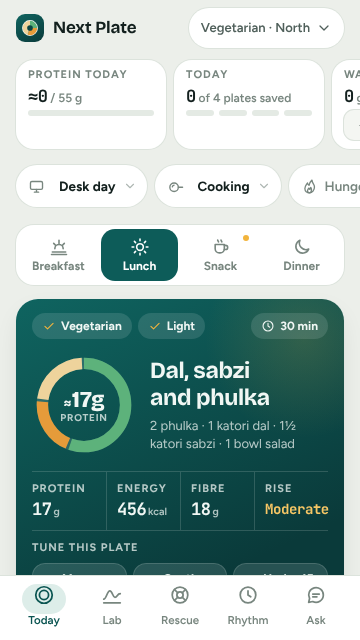
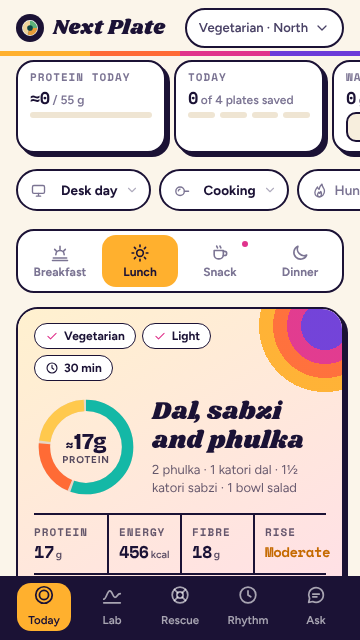
Next Plate: mixtape visual identity (retro lettering, sunset stripes, sticker cards)
Claude-Session: https://claude.ai/code/session_01LviQGy51n6BiabkyYHdytK

diff --git a/hosted/v4/server.ts b/hosted/v4/server.ts
@@ -16,7 +16,7 @@ const PAGE: string = String.raw`<!doctype html><html lang="en"><head><meta chars
 <meta name="claude:viewport-fit-sides" content="cover">
 <link rel="preconnect" href="https://fonts.googleapis.com">
 <link rel="preconnect" href="https://fonts.gstatic.com" crossorigin>
-<link rel="stylesheet" href="https://fonts.googleapis.com/css2?family=Bricolage+Grotesque:opsz,wght@12..96,500..800&family=Figtree:wght@400..700&family=JetBrains+Mono:wght@500..700&display=swap">
+<link rel="stylesheet" href="https://fonts.googleapis.com/css2?family=Bricolage+Grotesque:opsz,wght@12..96,500..800&family=Figtree:wght@400..700&family=JetBrains+Mono:wght@500..700&family=Shrikhand&family=Space+Mono:wght@400;700&display=swap">
 <style>
 /* Layout: five live instruments. On a phone they are tabs (Today, Lab, Rescue, Rhythm, Ask). On a wide screen they sit together as a studio: plate engine and plate lab on the first row, rescue, day rhythm and ask on the second. */
 :root{
@@ -466,6 +466,74 @@ input[type=range]::-moz-range-thumb{width:24px;height:24px;border-radius:50%;bac
   .app[data-layout="studio"] .toast{top:74px}
 }
 @media (min-width:1280px){.app[data-layout="studio"] .labgrid{grid-template-columns:minmax(0,1.08fr) minmax(0,1fr)}}
+
+/* ===== v5: mixtape. Light paper, retro lettering, sunset stripes, sticker cards, one deep-space panel ===== */
+:root{--bg:#FBF5EA;--surface:#FFFFFF;--surface2:#F7EEDD;--ink:#1B1235;--ink2:#4A4266;--ink3:#7B7493;--line:#E7DBC6;
+  --brand:#E0338C;--brand-ink:#FFFFFF;--brand-soft:#FFE1EF;--brand-text:#B41E6C;
+  --hero1:#FFF1CF;--hero2:#FFDDEA;--hero-ink:#1B1235;--hero-ink2:rgba(27,18,53,.68);--hero-line:rgba(27,18,53,.16);--hero-chip:#FFFFFF;--track:#EFE5D3;--track-dark:rgba(27,18,53,.1);
+  --haldi:#FFB02E;--veg:#14B8A6;--pro:#FF6B35;--grain:#FFC94D;--side:#B9A7F0;--chilli:#D8342B;--ok:#0F9A8A;--warn-bg:#FFF0C2;--warn-ink:#5B3E00;--toast:#1B1235;--toast-ink:#FFFFFF;
+  --ink-panel:#1B1235;--panel2:#33175F;--glow:#FFB02E;--amber:#FF6FB0;--p-ink:#F6F0FF;--p-ink2:rgba(246,240,255,.7);--p-line:rgba(246,240,255,.16);
+  --band-g:#0B8F80;--band-m:#C56A00;--band-s:#D8342B;--panelbg:#FFFBF3;--shadow:4px 4px 0 #1B1235;
+  --mono:"Space Mono","JetBrains Mono",ui-monospace,Menlo,monospace;--retro:"Shrikhand","Bricolage Grotesque",Georgia,serif;color-scheme:light}
+@media (prefers-color-scheme:dark){:root:not([data-theme="light"]){--bg:#FBF5EA;--surface:#FFFFFF;--surface2:#F7EEDD;--ink:#1B1235;--ink2:#4A4266;--ink3:#7B7493;--line:#E7DBC6;
+  --brand:#E0338C;--brand-ink:#FFFFFF;--brand-soft:#FFE1EF;--brand-text:#B41E6C;
+  --hero1:#FFF1CF;--hero2:#FFDDEA;--hero-ink:#1B1235;--hero-ink2:rgba(27,18,53,.68);--hero-line:rgba(27,18,53,.16);--hero-chip:#FFFFFF;--track:#EFE5D3;--track-dark:rgba(27,18,53,.1);
+  --haldi:#FFB02E;--veg:#14B8A6;--pro:#FF6B35;--grain:#FFC94D;--side:#B9A7F0;--chilli:#D8342B;--ok:#0F9A8A;--warn-bg:#FFF0C2;--warn-ink:#5B3E00;--toast:#1B1235;--toast-ink:#FFFFFF;
+  --ink-panel:#1B1235;--panel2:#33175F;--glow:#FFB02E;--amber:#FF6FB0;--p-ink:#F6F0FF;--p-ink2:rgba(246,240,255,.7);--p-line:rgba(246,240,255,.16);
+  --band-g:#0B8F80;--band-m:#C56A00;--band-s:#D8342B;--panelbg:#FFFBF3;--shadow:4px 4px 0 #1B1235;
+  --mono:"Space Mono","JetBrains Mono",ui-monospace,Menlo,monospace;--retro:"Shrikhand","Bricolage Grotesque",Georgia,serif;color-scheme:light}}
+:root[data-theme="dark"]{--bg:#FBF5EA;--surface:#FFFFFF;--surface2:#F7EEDD;--ink:#1B1235;--ink2:#4A4266;--ink3:#7B7493;--line:#E7DBC6;
+  --brand:#E0338C;--brand-ink:#FFFFFF;--brand-soft:#FFE1EF;--brand-text:#B41E6C;
+  --hero1:#FFF1CF;--hero2:#FFDDEA;--hero-ink:#1B1235;--hero-ink2:rgba(27,18,53,.68);--hero-line:rgba(27,18,53,.16);--hero-chip:#FFFFFF;--track:#EFE5D3;--track-dark:rgba(27,18,53,.1);
+  --haldi:#FFB02E;--veg:#14B8A6;--pro:#FF6B35;--grain:#FFC94D;--side:#B9A7F0;--chilli:#D8342B;--ok:#0F9A8A;--warn-bg:#FFF0C2;--warn-ink:#5B3E00;--toast:#1B1235;--toast-ink:#FFFFFF;
+  --ink-panel:#1B1235;--panel2:#33175F;--glow:#FFB02E;--amber:#FF6FB0;--p-ink:#F6F0FF;--p-ink2:rgba(246,240,255,.7);--p-line:rgba(246,240,255,.16);
+  --band-g:#0B8F80;--band-m:#C56A00;--band-s:#D8342B;--panelbg:#FFFBF3;--shadow:4px 4px 0 #1B1235;
+  --mono:"Space Mono","JetBrains Mono",ui-monospace,Menlo,monospace;--retro:"Shrikhand","Bricolage Grotesque",Georgia,serif;color-scheme:light}
+.top{position:relative}
+.top::after{content:"";position:absolute;left:0;right:0;bottom:0;height:5px;background:linear-gradient(90deg,#FFB02E 0 25%,#FF6B35 25% 50%,#E0338C 50% 75%,#6C3BD9 75%)}
+.brand{font:400 21px/24px var(--retro);letter-spacing:.01em}
+.mark{background:var(--ink);border-radius:50%}
+.panel-h h2,.hero h2,.setup-hero h1,.dish,.empty-card h2,.sheet-h h2{font-family:var(--retro);font-weight:400;letter-spacing:.005em}
+.hero h2{font-size:25px;line-height:29px}.panel-h h2{font-size:24px;line-height:28px}.dish{font-size:21px;line-height:25px}
+.eyebrow,.cap,.live{font-family:var(--mono)}
+.plate,.card,.tile2,.empty-card,.ans,.inst,.setup-hero,.slide,.goal{border:2px solid var(--ink);box-shadow:4px 4px 0 var(--ink)}
+.meals,.presets,.alt,.move,.prompt,.pillsel,.choice,.tile,.mini,.sit,.myfood,.lswitch,.dslot,.swaprow,.other,.swap,.composer input,.kg input,.wbtn,.ctr button,.goal-btn{border:2px solid var(--ink);box-shadow:none}
+.btn{border:2px solid var(--ink);box-shadow:3px 3px 0 var(--ink);background:#fff;transition:transform 90ms,box-shadow 90ms}
+.btn.primary{background:var(--brand);color:#fff}.btn.done{background:var(--veg);color:var(--ink)}
+.btn:active,.tbtn:active,.send:active{transform:translate(2px,2px);box-shadow:1px 1px 0 var(--ink)}
+.send{border:2px solid var(--ink);box-shadow:3px 3px 0 var(--ink);background:var(--brand)}.send.cam{background:#fff}
+.meal[aria-checked="true"]{background:var(--haldi);color:var(--ink)}.meal .now{background:var(--brand)}
+.preset[aria-checked="true"]{background:var(--ink);color:#fff}
+.choice[aria-pressed="true"],.choice[aria-checked="true"],.tile[aria-checked="true"]{background:var(--ink);color:#fff}
+.sit[aria-checked="true"],.pillsel[aria-expanded="true"],.lswitch button[aria-pressed="true"]{background:var(--ink);color:#fff}
+.move[aria-pressed="true"]{box-shadow:4px 4px 0 var(--brand);background:#FFF7FB}
+.hero{background:linear-gradient(150deg,var(--hero1),var(--hero2));overflow:hidden}
+.hero::after{right:-58px;top:-58px;width:150px;height:150px;border-radius:50%;background:radial-gradient(circle,#6C3BD9 0 24px,#E0338C 24px 38px,#FF6B35 38px 52px,#FFB02E 52px 66px,rgba(255,176,46,0) 66px);opacity:.95}
+.hero-top{padding-right:64px}.hchip.time{margin-left:0}
+.hchip{border:1.5px solid var(--ink);background:#fff}.hchip.fit svg.i{color:var(--brand)}
+.read4,.tune{border-top:2px solid var(--ink)}.read4>div+div{border-left:2px solid var(--ink)}
+.tbtn{background:#fff;color:var(--ink);border:2px solid var(--ink);box-shadow:3px 3px 0 var(--ink)}
+.tbtn[aria-pressed="true"]{background:var(--pro);color:#fff}
+.modlog li::before{background:var(--brand)}
+.qty{background:var(--surface2);border:1.5px solid var(--ink)}
+.tag{background:var(--haldi);color:var(--ink);border:1.5px solid var(--ink)}
+.why-ic,.ask-ic,.ans-h .dot,.goal-ic{background:var(--ink);color:var(--haldi);border:0}
+.tip{background:#FFF0C2;color:var(--ink);border:2px solid var(--ink)}
+.note{border:2px solid var(--ink)}
+.inst{background:radial-gradient(1.4px 1.4px at 12% 22%,#fff 60%,transparent 61%),radial-gradient(1px 1px at 78% 14%,#fff 60%,transparent 61%),radial-gradient(1.2px 1.2px at 56% 34%,#FFD88A 60%,transparent 61%),radial-gradient(1px 1px at 34% 58%,#fff 60%,transparent 61%),radial-gradient(1.3px 1.3px at 90% 62%,#FF9CCB 60%,transparent 61%),radial-gradient(1px 1px at 8% 82%,#fff 60%,transparent 61%),linear-gradient(160deg,var(--ink-panel),var(--panel2))}
+.inst .band-g{color:#6FF0DC}.inst .band-m{color:#FFC94D}.inst .band-s{color:#FF8FA3}
+.cb-g{fill:#14B8A6;opacity:.2}.cb-m{fill:#FFB02E;opacity:.12}
+.c-act{filter:drop-shadow(0 0 6px rgba(255,176,46,.6))}
+.hab{background:rgba(246,240,255,.07)}.hab[aria-pressed="true"]{background:var(--haldi);color:var(--ink);box-shadow:none}
+.cmp-bars .b1{background:var(--haldi)}.cmp-bars .b1.warn{background:#FF8FA3}
+.bar i,.mdots i.on,.pbar .col i{background:var(--brand)}.pbar .col i.full{background:var(--veg)}
+.tabs{background:var(--ink);border-top:0}
+.tab{color:rgba(255,255,255,.62)}.tab[aria-current="page"]{color:var(--ink)}.tab[aria-current="page"]::before{background:var(--haldi);top:1px;width:54px;height:48px;border-radius:14px}
+.bub{background:var(--brand);color:#fff;border:2px solid var(--ink)}
+.switch{border:1.5px solid var(--ink)}
+.tl-row.done .tl-dot{background:var(--veg);box-shadow:inset 0 0 0 2px var(--ink)}.tl-dot{box-shadow:inset 0 0 0 2px var(--ink)}.tl::before{background:var(--ink)}
+.toast{border:2px solid #fff}
+@media (min-width:1080px){.app[data-layout="studio"] .panel{border:2px solid var(--ink);box-shadow:6px 6px 0 var(--ink)}}
 </style>
 
 <svg width="0" height="0" style="position:absolute" aria-hidden="true">
@@ -1466,7 +1534,7 @@ function heroCard(m,v){
   var rd=el("div","read4");
   function cell(cap,node,unit,cls){var d=el("div");d.appendChild(el("p","cap",cap));var x=el("span","v"+(cls?" "+cls:""));x.appendChild(node);if(unit)x.appendChild(el("small",null,unit));d.appendChild(x);return d;}
   add(rd,cell("Protein",tw("h-p",nu.p),"g"),cell("Energy",tw("h-k",nu.k),"kcal"),cell("Fibre",tw("h-f",nu.f),"g"),cell("Rise",el("span","mono",rs.band),null,bandCls(rs.band)));
-  var tn=el("div","tune");tn.appendChild(el("p","cap","Tune this plate"));
+  var tn=el("div","tune");tn.appendChild(el("p","cap","Remix this plate"));
   [["pro","More protein","dumbbell"],["gentle","Gentler on sugar","lab"],["quick","Under 15 min","bolt"]].forEach(function(x){
     var b=btn("tbtn",x[1],x[2],"tune-"+x[0]);setPressed(b,TUNE[x[0]]);
     b.addEventListener("click",function(){TUNE[x[0]]=!TUNE[x[0]];if(x[0]==="quick"){page=0;sel=0;FRESH=true;}render();

diff --git a/hosted/v4/index.html b/hosted/v4/index.html
@@ -2,7 +2,7 @@
 <meta name="claude:viewport-fit-sides" content="cover">
 <link rel="preconnect" href="https://fonts.googleapis.com">
 <link rel="preconnect" href="https://fonts.gstatic.com" crossorigin>
-<link rel="stylesheet" href="https://fonts.googleapis.com/css2?family=Bricolage+Grotesque:opsz,wght@12..96,500..800&family=Figtree:wght@400..700&family=JetBrains+Mono:wght@500..700&display=swap">
+<link rel="stylesheet" href="https://fonts.googleapis.com/css2?family=Bricolage+Grotesque:opsz,wght@12..96,500..800&family=Figtree:wght@400..700&family=JetBrains+Mono:wght@500..700&family=Shrikhand&family=Space+Mono:wght@400;700&display=swap">
 <style>
 /* Layout: five live instruments. On a phone they are tabs (Today, Lab, Rescue, Rhythm, Ask). On a wide screen they sit together as a studio: plate engine and plate lab on the first row, rescue, day rhythm and ask on the second. */
 :root{
@@ -452,6 +452,74 @@ input[type=range]::-moz-range-thumb{width:24px;height:24px;border-radius:50%;bac
   .app[data-layout="studio"] .toast{top:74px}
 }
 @media (min-width:1280px){.app[data-layout="studio"] .labgrid{grid-template-columns:minmax(0,1.08fr) minmax(0,1fr)}}
+
+/* ===== v5: mixtape. Light paper, retro lettering, sunset stripes, sticker cards, one deep-space panel ===== */
+:root{--bg:#FBF5EA;--surface:#FFFFFF;--surface2:#F7EEDD;--ink:#1B1235;--ink2:#4A4266;--ink3:#7B7493;--line:#E7DBC6;
+  --brand:#E0338C;--brand-ink:#FFFFFF;--brand-soft:#FFE1EF;--brand-text:#B41E6C;
+  --hero1:#FFF1CF;--hero2:#FFDDEA;--hero-ink:#1B1235;--hero-ink2:rgba(27,18,53,.68);--hero-line:rgba(27,18,53,.16);--hero-chip:#FFFFFF;--track:#EFE5D3;--track-dark:rgba(27,18,53,.1);
+  --haldi:#FFB02E;--veg:#14B8A6;--pro:#FF6B35;--grain:#FFC94D;--side:#B9A7F0;--chilli:#D8342B;--ok:#0F9A8A;--warn-bg:#FFF0C2;--warn-ink:#5B3E00;--toast:#1B1235;--toast-ink:#FFFFFF;
+  --ink-panel:#1B1235;--panel2:#33175F;--glow:#FFB02E;--amber:#FF6FB0;--p-ink:#F6F0FF;--p-ink2:rgba(246,240,255,.7);--p-line:rgba(246,240,255,.16);
+  --band-g:#0B8F80;--band-m:#C56A00;--band-s:#D8342B;--panelbg:#FFFBF3;--shadow:4px 4px 0 #1B1235;
+  --mono:"Space Mono","JetBrains Mono",ui-monospace,Menlo,monospace;--retro:"Shrikhand","Bricolage Grotesque",Georgia,serif;color-scheme:light}
+@media (prefers-color-scheme:dark){:root:not([data-theme="light"]){--bg:#FBF5EA;--surface:#FFFFFF;--surface2:#F7EEDD;--ink:#1B1235;--ink2:#4A4266;--ink3:#7B7493;--line:#E7DBC6;
+  --brand:#E0338C;--brand-ink:#FFFFFF;--brand-soft:#FFE1EF;--brand-text:#B41E6C;
+  --hero1:#FFF1CF;--hero2:#FFDDEA;--hero-ink:#1B1235;--hero-ink2:rgba(27,18,53,.68);--hero-line:rgba(27,18,53,.16);--hero-chip:#FFFFFF;--track:#EFE5D3;--track-dark:rgba(27,18,53,.1);
+  --haldi:#FFB02E;--veg:#14B8A6;--pro:#FF6B35;--grain:#FFC94D;--side:#B9A7F0;--chilli:#D8342B;--ok:#0F9A8A;--warn-bg:#FFF0C2;--warn-ink:#5B3E00;--toast:#1B1235;--toast-ink:#FFFFFF;
+  --ink-panel:#1B1235;--panel2:#33175F;--glow:#FFB02E;--amber:#FF6FB0;--p-ink:#F6F0FF;--p-ink2:rgba(246,240,255,.7);--p-line:rgba(246,240,255,.16);
+  --band-g:#0B8F80;--band-m:#C56A00;--band-s:#D8342B;--panelbg:#FFFBF3;--shadow:4px 4px 0 #1B1235;
+  --mono:"Space Mono","JetBrains Mono",ui-monospace,Menlo,monospace;--retro:"Shrikhand","Bricolage Grotesque",Georgia,serif;color-scheme:light}}
+:root[data-theme="dark"]{--bg:#FBF5EA;--surface:#FFFFFF;--surface2:#F7EEDD;--ink:#1B1235;--ink2:#4A4266;--ink3:#7B7493;--line:#E7DBC6;
+  --brand:#E0338C;--brand-ink:#FFFFFF;--brand-soft:#FFE1EF;--brand-text:#B41E6C;
+  --hero1:#FFF1CF;--hero2:#FFDDEA;--hero-ink:#1B1235;--hero-ink2:rgba(27,18,53,.68);--hero-line:rgba(27,18,53,.16);--hero-chip:#FFFFFF;--track:#EFE5D3;--track-dark:rgba(27,18,53,.1);
+  --haldi:#FFB02E;--veg:#14B8A6;--pro:#FF6B35;--grain:#FFC94D;--side:#B9A7F0;--chilli:#D8342B;--ok:#0F9A8A;--warn-bg:#FFF0C2;--warn-ink:#5B3E00;--toast:#1B1235;--toast-ink:#FFFFFF;
+  --ink-panel:#1B1235;--panel2:#33175F;--glow:#FFB02E;--amber:#FF6FB0;--p-ink:#F6F0FF;--p-ink2:rgba(246,240,255,.7);--p-line:rgba(246,240,255,.16);
+  --band-g:#0B8F80;--band-m:#C56A00;--band-s:#D8342B;--panelbg:#FFFBF3;--shadow:4px 4px 0 #1B1235;
+  --mono:"Space Mono","JetBrains Mono",ui-monospace,Menlo,monospace;--retro:"Shrikhand","Bricolage Grotesque",Georgia,serif;color-scheme:light}
+.top{position:relative}
+.top::after{content:"";position:absolute;left:0;right:0;bottom:0;height:5px;background:linear-gradient(90deg,#FFB02E 0 25%,#FF6B35 25% 50%,#E0338C 50% 75%,#6C3BD9 75%)}
+.brand{font:400 21px/24px var(--retro);letter-spacing:.01em}
+.mark{background:var(--ink);border-radius:50%}
+.panel-h h2,.hero h2,.setup-hero h1,.dish,.empty-card h2,.sheet-h h2{font-family:var(--retro);font-weight:400;letter-spacing:.005em}
+.hero h2{font-size:25px;line-height:29px}.panel-h h2{font-size:24px;line-height:28px}.dish{font-size:21px;line-height:25px}
+.eyebrow,.cap,.live{font-family:var(--mono)}
+.plate,.card,.tile2,.empty-card,.ans,.inst,.setup-hero,.slide,.goal{border:2px solid var(--ink);box-shadow:4px 4px 0 var(--ink)}
+.meals,.presets,.alt,.move,.prompt,.pillsel,.choice,.tile,.mini,.sit,.myfood,.lswitch,.dslot,.swaprow,.other,.swap,.composer input,.kg input,.wbtn,.ctr button,.goal-btn{border:2px solid var(--ink);box-shadow:none}
+.btn{border:2px solid var(--ink);box-shadow:3px 3px 0 var(--ink);background:#fff;transition:transform 90ms,box-shadow 90ms}
+.btn.primary{background:var(--brand);color:#fff}.btn.done{background:var(--veg);color:var(--ink)}
+.btn:active,.tbtn:active,.send:active{transform:translate(2px,2px);box-shadow:1px 1px 0 var(--ink)}
+.send{border:2px solid var(--ink);box-shadow:3px 3px 0 var(--ink);background:var(--brand)}.send.cam{background:#fff}
+.meal[aria-checked="true"]{background:var(--haldi);color:var(--ink)}.meal .now{background:var(--brand)}
+.preset[aria-checked="true"]{background:var(--ink);color:#fff}
+.choice[aria-pressed="true"],.choice[aria-checked="true"],.tile[aria-checked="true"]{background:var(--ink);color:#fff}
+.sit[aria-checked="true"],.pillsel[aria-expanded="true"],.lswitch button[aria-pressed="true"]{background:var(--ink);color:#fff}
+.move[aria-pressed="true"]{box-shadow:4px 4px 0 var(--brand);background:#FFF7FB}
+.hero{background:linear-gradient(150deg,var(--hero1),var(--hero2));overflow:hidden}
+.hero::after{right:-58px;top:-58px;width:150px;height:150px;border-radius:50%;background:radial-gradient(circle,#6C3BD9 0 24px,#E0338C 24px 38px,#FF6B35 38px 52px,#FFB02E 52px 66px,rgba(255,176,46,0) 66px);opacity:.95}
+.hero-top{padding-right:64px}.hchip.time{margin-left:0}
+.hchip{border:1.5px solid var(--ink);background:#fff}.hchip.fit svg.i{color:var(--brand)}
+.read4,.tune{border-top:2px solid var(--ink)}.read4>div+div{border-left:2px solid var(--ink)}
+.tbtn{background:#fff;color:var(--ink);border:2px solid var(--ink);box-shadow:3px 3px 0 var(--ink)}
+.tbtn[aria-pressed="true"]{background:var(--pro);color:#fff}
+.modlog li::before{background:var(--brand)}
+.qty{background:var(--surface2);border:1.5px solid var(--ink)}
+.tag{background:var(--haldi);color:var(--ink);border:1.5px solid var(--ink)}
+.why-ic,.ask-ic,.ans-h .dot,.goal-ic{background:var(--ink);color:var(--haldi);border:0}
+.tip{background:#FFF0C2;color:var(--ink);border:2px solid var(--ink)}
+.note{border:2px solid var(--ink)}
+.inst{background:radial-gradient(1.4px 1.4px at 12% 22%,#fff 60%,transparent 61%),radial-gradient(1px 1px at 78% 14%,#fff 60%,transparent 61%),radial-gradient(1.2px 1.2px at 56% 34%,#FFD88A 60%,transparent 61%),radial-gradient(1px 1px at 34% 58%,#fff 60%,transparent 61%),radial-gradient(1.3px 1.3px at 90% 62%,#FF9CCB 60%,transparent 61%),radial-gradient(1px 1px at 8% 82%,#fff 60%,transparent 61%),linear-gradient(160deg,var(--ink-panel),var(--panel2))}
+.inst .band-g{color:#6FF0DC}.inst .band-m{color:#FFC94D}.inst .band-s{color:#FF8FA3}
+.cb-g{fill:#14B8A6;opacity:.2}.cb-m{fill:#FFB02E;opacity:.12}
+.c-act{filter:drop-shadow(0 0 6px rgba(255,176,46,.6))}
+.hab{background:rgba(246,240,255,.07)}.hab[aria-pressed="true"]{background:var(--haldi);color:var(--ink);box-shadow:none}
+.cmp-bars .b1{background:var(--haldi)}.cmp-bars .b1.warn{background:#FF8FA3}
+.bar i,.mdots i.on,.pbar .col i{background:var(--brand)}.pbar .col i.full{background:var(--veg)}
+.tabs{background:var(--ink);border-top:0}
+.tab{color:rgba(255,255,255,.62)}.tab[aria-current="page"]{color:var(--ink)}.tab[aria-current="page"]::before{background:var(--haldi);top:1px;width:54px;height:48px;border-radius:14px}
+.bub{background:var(--brand);color:#fff;border:2px solid var(--ink)}
+.switch{border:1.5px solid var(--ink)}
+.tl-row.done .tl-dot{background:var(--veg);box-shadow:inset 0 0 0 2px var(--ink)}.tl-dot{box-shadow:inset 0 0 0 2px var(--ink)}.tl::before{background:var(--ink)}
+.toast{border:2px solid #fff}
+@media (min-width:1080px){.app[data-layout="studio"] .panel{border:2px solid var(--ink);box-shadow:6px 6px 0 var(--ink)}}
 </style>
 
 <svg width="0" height="0" style="position:absolute" aria-hidden="true">
@@ -1452,7 +1520,7 @@ function heroCard(m,v){
   var rd=el("div","read4");
   function cell(cap,node,unit,cls){var d=el("div");d.appendChild(el("p","cap",cap));var x=el("span","v"+(cls?" "+cls:""));x.appendChild(node);if(unit)x.appendChild(el("small",null,unit));d.appendChild(x);return d;}
   add(rd,cell("Protein",tw("h-p",nu.p),"g"),cell("Energy",tw("h-k",nu.k),"kcal"),cell("Fibre",tw("h-f",nu.f),"g"),cell("Rise",el("span","mono",rs.band),null,bandCls(rs.band)));
-  var tn=el("div","tune");tn.appendChild(el("p","cap","Tune this plate"));
+  var tn=el("div","tune");tn.appendChild(el("p","cap","Remix this plate"));
   [["pro","More protein","dumbbell"],["gentle","Gentler on sugar","lab"],["quick","Under 15 min","bolt"]].forEach(function(x){
     var b=btn("tbtn",x[1],x[2],"tune-"+x[0]);setPressed(b,TUNE[x[0]]);
     b.addEventListener("click",function(){TUNE[x[0]]=!TUNE[x[0]];if(x[0]==="quick"){page=0;sel=0;FRESH=true;}render();

diff --git a/next-plate-v4.html b/next-plate-v4.html
@@ -2,7 +2,7 @@
 <meta name="claude:viewport-fit-sides" content="cover">
 <link rel="preconnect" href="https://fonts.googleapis.com">
 <link rel="preconnect" href="https://fonts.gstatic.com" crossorigin>
-<link rel="stylesheet" href="https://fonts.googleapis.com/css2?family=Bricolage+Grotesque:opsz,wght@12..96,500..800&family=Figtree:wght@400..700&family=JetBrains+Mono:wght@500..700&display=swap">
+<link rel="stylesheet" href="https://fonts.googleapis.com/css2?family=Bricolage+Grotesque:opsz,wght@12..96,500..800&family=Figtree:wght@400..700&family=JetBrains+Mono:wght@500..700&family=Shrikhand&family=Space+Mono:wght@400;700&display=swap">
 <style>
 /* Layout: five live instruments. On a phone they are tabs (Today, Lab, Rescue, Rhythm, Ask). On a wide screen they sit together as a studio: plate engine and plate lab on the first row, rescue, day rhythm and ask on the second. */
 :root{
@@ -452,6 +452,74 @@ input[type=range]::-moz-range-thumb{width:24px;height:24px;border-radius:50%;bac
   .app[data-layout="studio"] .toast{top:74px}
 }
 @media (min-width:1280px){.app[data-layout="studio"] .labgrid{grid-template-columns:minmax(0,1.08fr) minmax(0,1fr)}}
+
+/* ===== v5: mixtape. Light paper, retro lettering, sunset stripes, sticker cards, one deep-space panel ===== */
+:root{--bg:#FBF5EA;--surface:#FFFFFF;--surface2:#F7EEDD;--ink:#1B1235;--ink2:#4A4266;--ink3:#7B7493;--line:#E7DBC6;
+  --brand:#E0338C;--brand-ink:#FFFFFF;--brand-soft:#FFE1EF;--brand-text:#B41E6C;
+  --hero1:#FFF1CF;--hero2:#FFDDEA;--hero-ink:#1B1235;--hero-ink2:rgba(27,18,53,.68);--hero-line:rgba(27,18,53,.16);--hero-chip:#FFFFFF;--track:#EFE5D3;--track-dark:rgba(27,18,53,.1);
+  --haldi:#FFB02E;--veg:#14B8A6;--pro:#FF6B35;--grain:#FFC94D;--side:#B9A7F0;--chilli:#D8342B;--ok:#0F9A8A;--warn-bg:#FFF0C2;--warn-ink:#5B3E00;--toast:#1B1235;--toast-ink:#FFFFFF;
+  --ink-panel:#1B1235;--panel2:#33175F;--glow:#FFB02E;--amber:#FF6FB0;--p-ink:#F6F0FF;--p-ink2:rgba(246,240,255,.7);--p-line:rgba(246,240,255,.16);
+  --band-g:#0B8F80;--band-m:#C56A00;--band-s:#D8342B;--panelbg:#FFFBF3;--shadow:4px 4px 0 #1B1235;
+  --mono:"Space Mono","JetBrains Mono",ui-monospace,Menlo,monospace;--retro:"Shrikhand","Bricolage Grotesque",Georgia,serif;color-scheme:light}
+@media (prefers-color-scheme:dark){:root:not([data-theme="light"]){--bg:#FBF5EA;--surface:#FFFFFF;--surface2:#F7EEDD;--ink:#1B1235;--ink2:#4A4266;--ink3:#7B7493;--line:#E7DBC6;
+  --brand:#E0338C;--brand-ink:#FFFFFF;--brand-soft:#FFE1EF;--brand-text:#B41E6C;
+  --hero1:#FFF1CF;--hero2:#FFDDEA;--hero-ink:#1B1235;--hero-ink2:rgba(27,18,53,.68);--hero-line:rgba(27,18,53,.16);--hero-chip:#FFFFFF;--track:#EFE5D3;--track-dark:rgba(27,18,53,.1);
+  --haldi:#FFB02E;--veg:#14B8A6;--pro:#FF6B35;--grain:#FFC94D;--side:#B9A7F0;--chilli:#D8342B;--ok:#0F9A8A;--warn-bg:#FFF0C2;--warn-ink:#5B3E00;--toast:#1B1235;--toast-ink:#FFFFFF;
+  --ink-panel:#1B1235;--panel2:#33175F;--glow:#FFB02E;--amber:#FF6FB0;--p-ink:#F6F0FF;--p-ink2:rgba(246,240,255,.7);--p-line:rgba(246,240,255,.16);
+  --band-g:#0B8F80;--band-m:#C56A00;--band-s:#D8342B;--panelbg:#FFFBF3;--shadow:4px 4px 0 #1B1235;
+  --mono:"Space Mono","JetBrains Mono",ui-monospace,Menlo,monospace;--retro:"Shrikhand","Bricolage Grotesque",Georgia,serif;color-scheme:light}}
+:root[data-theme="dark"]{--bg:#FBF5EA;--surface:#FFFFFF;--surface2:#F7EEDD;--ink:#1B1235;--ink2:#4A4266;--ink3:#7B7493;--line:#E7DBC6;
+  --brand:#E0338C;--brand-ink:#FFFFFF;--brand-soft:#FFE1EF;--brand-text:#B41E6C;
+  --hero1:#FFF1CF;--hero2:#FFDDEA;--hero-ink:#1B1235;--hero-ink2:rgba(27,18,53,.68);--hero-line:rgba(27,18,53,.16);--hero-chip:#FFFFFF;--track:#EFE5D3;--track-dark:rgba(27,18,53,.1);
+  --haldi:#FFB02E;--veg:#14B8A6;--pro:#FF6B35;--grain:#FFC94D;--side:#B9A7F0;--chilli:#D8342B;--ok:#0F9A8A;--warn-bg:#FFF0C2;--warn-ink:#5B3E00;--toast:#1B1235;--toast-ink:#FFFFFF;
+  --ink-panel:#1B1235;--panel2:#33175F;--glow:#FFB02E;--amber:#FF6FB0;--p-ink:#F6F0FF;--p-ink2:rgba(246,240,255,.7);--p-line:rgba(246,240,255,.16);
+  --band-g:#0B8F80;--band-m:#C56A00;--band-s:#D8342B;--panelbg:#FFFBF3;--shadow:4px 4px 0 #1B1235;
+  --mono:"Space Mono","JetBrains Mono",ui-monospace,Menlo,monospace;--retro:"Shrikhand","Bricolage Grotesque",Georgia,serif;color-scheme:light}
+.top{position:relative}
+.top::after{content:"";position:absolute;left:0;right:0;bottom:0;height:5px;background:linear-gradient(90deg,#FFB02E 0 25%,#FF6B35 25% 50%,#E0338C 50% 75%,#6C3BD9 75%)}
+.brand{font:400 21px/24px var(--retro);letter-spacing:.01em}
+.mark{background:var(--ink);border-radius:50%}
+.panel-h h2,.hero h2,.setup-hero h1,.dish,.empty-card h2,.sheet-h h2{font-family:var(--retro);font-weight:400;letter-spacing:.005em}
+.hero h2{font-size:25px;line-height:29px}.panel-h h2{font-size:24px;line-height:28px}.dish{font-size:21px;line-height:25px}
+.eyebrow,.cap,.live{font-family:var(--mono)}
+.plate,.card,.tile2,.empty-card,.ans,.inst,.setup-hero,.slide,.goal{border:2px solid var(--ink);box-shadow:4px 4px 0 var(--ink)}
+.meals,.presets,.alt,.move,.prompt,.pillsel,.choice,.tile,.mini,.sit,.myfood,.lswitch,.dslot,.swaprow,.other,.swap,.composer input,.kg input,.wbtn,.ctr button,.goal-btn{border:2px solid var(--ink);box-shadow:none}
+.btn{border:2px solid var(--ink);box-shadow:3px 3px 0 var(--ink);background:#fff;transition:transform 90ms,box-shadow 90ms}
+.btn.primary{background:var(--brand);color:#fff}.btn.done{background:var(--veg);color:var(--ink)}
+.btn:active,.tbtn:active,.send:active{transform:translate(2px,2px);box-shadow:1px 1px 0 var(--ink)}
+.send{border:2px solid var(--ink);box-shadow:3px 3px 0 var(--ink);background:var(--brand)}.send.cam{background:#fff}
+.meal[aria-checked="true"]{background:var(--haldi);color:var(--ink)}.meal .now{background:var(--brand)}
+.preset[aria-checked="true"]{background:var(--ink);color:#fff}
+.choice[aria-pressed="true"],.choice[aria-checked="true"],.tile[aria-checked="true"]{background:var(--ink);color:#fff}
+.sit[aria-checked="true"],.pillsel[aria-expanded="true"],.lswitch button[aria-pressed="true"]{background:var(--ink);color:#fff}
+.move[aria-pressed="true"]{box-shadow:4px 4px 0 var(--brand);background:#FFF7FB}
+.hero{background:linear-gradient(150deg,var(--hero1),var(--hero2));overflow:hidden}
+.hero::after{right:-58px;top:-58px;width:150px;height:150px;border-radius:50%;background:radial-gradient(circle,#6C3BD9 0 24px,#E0338C 24px 38px,#FF6B35 38px 52px,#FFB02E 52px 66px,rgba(255,176,46,0) 66px);opacity:.95}
+.hero-top{padding-right:64px}.hchip.time{margin-left:0}
+.hchip{border:1.5px solid var(--ink);background:#fff}.hchip.fit svg.i{color:var(--brand)}
+.read4,.tune{border-top:2px solid var(--ink)}.read4>div+div{border-left:2px solid var(--ink)}
+.tbtn{background:#fff;color:var(--ink);border:2px solid var(--ink);box-shadow:3px 3px 0 var(--ink)}
+.tbtn[aria-pressed="true"]{background:var(--pro);color:#fff}
+.modlog li::before{background:var(--brand)}
+.qty{background:var(--surface2);border:1.5px solid var(--ink)}
+.tag{background:var(--haldi);color:var(--ink);border:1.5px solid var(--ink)}
+.why-ic,.ask-ic,.ans-h .dot,.goal-ic{background:var(--ink);color:var(--haldi);border:0}
+.tip{background:#FFF0C2;color:var(--ink);border:2px solid var(--ink)}
+.note{border:2px solid var(--ink)}
+.inst{background:radial-gradient(1.4px 1.4px at 12% 22%,#fff 60%,transparent 61%),radial-gradient(1px 1px at 78% 14%,#fff 60%,transparent 61%),radial-gradient(1.2px 1.2px at 56% 34%,#FFD88A 60%,transparent 61%),radial-gradient(1px 1px at 34% 58%,#fff 60%,transparent 61%),radial-gradient(1.3px 1.3px at 90% 62%,#FF9CCB 60%,transparent 61%),radial-gradient(1px 1px at 8% 82%,#fff 60%,transparent 61%),linear-gradient(160deg,var(--ink-panel),var(--panel2))}
+.inst .band-g{color:#6FF0DC}.inst .band-m{color:#FFC94D}.inst .band-s{color:#FF8FA3}
+.cb-g{fill:#14B8A6;opacity:.2}.cb-m{fill:#FFB02E;opacity:.12}
+.c-act{filter:drop-shadow(0 0 6px rgba(255,176,46,.6))}
+.hab{background:rgba(246,240,255,.07)}.hab[aria-pressed="true"]{background:var(--haldi);color:var(--ink);box-shadow:none}
+.cmp-bars .b1{background:var(--haldi)}.cmp-bars .b1.warn{background:#FF8FA3}
+.bar i,.mdots i.on,.pbar .col i{background:var(--brand)}.pbar .col i.full{background:var(--veg)}
+.tabs{background:var(--ink);border-top:0}
+.tab{color:rgba(255,255,255,.62)}.tab[aria-current="page"]{color:var(--ink)}.tab[aria-current="page"]::before{background:var(--haldi);top:1px;width:54px;height:48px;border-radius:14px}
+.bub{background:var(--brand);color:#fff;border:2px solid var(--ink)}
+.switch{border:1.5px solid var(--ink)}
+.tl-row.done .tl-dot{background:var(--veg);box-shadow:inset 0 0 0 2px var(--ink)}.tl-dot{box-shadow:inset 0 0 0 2px var(--ink)}.tl::before{background:var(--ink)}
+.toast{border:2px solid #fff}
+@media (min-width:1080px){.app[data-layout="studio"] .panel{border:2px solid var(--ink);box-shadow:6px 6px 0 var(--ink)}}
 </style>
 
 <svg width="0" height="0" style="position:absolute" aria-hidden="true">
@@ -1451,7 +1519,7 @@ function heroCard(m,v){
   var rd=el("div","read4");
   function cell(cap,node,unit,cls){var d=el("div");d.appendChild(el("p","cap",cap));var x=el("span","v"+(cls?" "+cls:""));x.appendChild(node);if(unit)x.appendChild(el("small",null,unit));d.appendChild(x);return d;}
   add(rd,cell("Protein",tw("h-p",nu.p),"g"),cell("Energy",tw("h-k",nu.k),"kcal"),cell("Fibre",tw("h-f",nu.f),"g"),cell("Rise",el("span","mono",rs.band),null,bandCls(rs.band)));
-  var tn=el("div","tune");tn.appendChild(el("p","cap","Tune this plate"));
+  var tn=el("div","tune");tn.appendChild(el("p","cap","Remix this plate"));
   [["pro","More protein","dumbbell"],["gentle","Gentler on sugar","lab"],["quick","Under 15 min","bolt"]].forEach(function(x){
     var b=btn("tbtn",x[1],x[2],"tune-"+x[0]);setPressed(b,TUNE[x[0]]);
     b.addEventListener("click",function(){TUNE[x[0]]=!TUNE[x[0]];if(x[0]==="quick"){page=0;sel=0;FRESH=true;}render();

diff --git a/src/v4/shell.html b/src/v4/shell.html
@@ -2,7 +2,7 @@
 <meta name="claude:viewport-fit-sides" content="cover">
 <link rel="preconnect" href="https://fonts.googleapis.com">
 <link rel="preconnect" href="https://fonts.gstatic.com" crossorigin>
-<link rel="stylesheet" href="https://fonts.googleapis.com/css2?family=Bricolage+Grotesque:opsz,wght@12..96,500..800&family=Figtree:wght@400..700&family=JetBrains+Mono:wght@500..700&display=swap">
+<link rel="stylesheet" href="https://fonts.googleapis.com/css2?family=Bricolage+Grotesque:opsz,wght@12..96,500..800&family=Figtree:wght@400..700&family=JetBrains+Mono:wght@500..700&family=Shrikhand&family=Space+Mono:wght@400;700&display=swap">
 <style>
 /* Layout: five live instruments. On a phone they are tabs (Today, Lab, Rescue, Rhythm, Ask). On a wide screen they sit together as a studio: plate engine and plate lab on the first row, rescue, day rhythm and ask on the second. */
 :root{
@@ -452,6 +452,74 @@ input[type=range]::-moz-range-thumb{width:24px;height:24px;border-radius:50%;bac
   .app[data-layout="studio"] .toast{top:74px}
 }
 @media (min-width:1280px){.app[data-layout="studio"] .labgrid{grid-template-columns:minmax(0,1.08fr) minmax(0,1fr)}}
+
+/* ===== v5: mixtape. Light paper, retro lettering, sunset stripes, sticker cards, one deep-space panel ===== */
+:root{--bg:#FBF5EA;--surface:#FFFFFF;--surface2:#F7EEDD;--ink:#1B1235;--ink2:#4A4266;--ink3:#7B7493;--line:#E7DBC6;
+  --brand:#E0338C;--brand-ink:#FFFFFF;--brand-soft:#FFE1EF;--brand-text:#B41E6C;
+  --hero1:#FFF1CF;--hero2:#FFDDEA;--hero-ink:#1B1235;--hero-ink2:rgba(27,18,53,.68);--hero-line:rgba(27,18,53,.16);--hero-chip:#FFFFFF;--track:#EFE5D3;--track-dark:rgba(27,18,53,.1);
+  --haldi:#FFB02E;--veg:#14B8A6;--pro:#FF6B35;--grain:#FFC94D;--side:#B9A7F0;--chilli:#D8342B;--ok:#0F9A8A;--warn-bg:#FFF0C2;--warn-ink:#5B3E00;--toast:#1B1235;--toast-ink:#FFFFFF;
+  --ink-panel:#1B1235;--panel2:#33175F;--glow:#FFB02E;--amber:#FF6FB0;--p-ink:#F6F0FF;--p-ink2:rgba(246,240,255,.7);--p-line:rgba(246,240,255,.16);
+  --band-g:#0B8F80;--band-m:#C56A00;--band-s:#D8342B;--panelbg:#FFFBF3;--shadow:4px 4px 0 #1B1235;
+  --mono:"Space Mono","JetBrains Mono",ui-monospace,Menlo,monospace;--retro:"Shrikhand","Bricolage Grotesque",Georgia,serif;color-scheme:light}
+@media (prefers-color-scheme:dark){:root:not([data-theme="light"]){--bg:#FBF5EA;--surface:#FFFFFF;--surface2:#F7EEDD;--ink:#1B1235;--ink2:#4A4266;--ink3:#7B7493;--line:#E7DBC6;
+  --brand:#E0338C;--brand-ink:#FFFFFF;--brand-soft:#FFE1EF;--brand-text:#B41E6C;
+  --hero1:#FFF1CF;--hero2:#FFDDEA;--hero-ink:#1B1235;--hero-ink2:rgba(27,18,53,.68);--hero-line:rgba(27,18,53,.16);--hero-chip:#FFFFFF;--track:#EFE5D3;--track-dark:rgba(27,18,53,.1);
+  --haldi:#FFB02E;--veg:#14B8A6;--pro:#FF6B35;--grain:#FFC94D;--side:#B9A7F0;--chilli:#D8342B;--ok:#0F9A8A;--warn-bg:#FFF0C2;--warn-ink:#5B3E00;--toast:#1B1235;--toast-ink:#FFFFFF;
+  --ink-panel:#1B1235;--panel2:#33175F;--glow:#FFB02E;--amber:#FF6FB0;--p-ink:#F6F0FF;--p-ink2:rgba(246,240,255,.7);--p-line:rgba(246,240,255,.16);
+  --band-g:#0B8F80;--band-m:#C56A00;--band-s:#D8342B;--panelbg:#FFFBF3;--shadow:4px 4px 0 #1B1235;
+  --mono:"Space Mono","JetBrains Mono",ui-monospace,Menlo,monospace;--retro:"Shrikhand","Bricolage Grotesque",Georgia,serif;color-scheme:light}}
+:root[data-theme="dark"]{--bg:#FBF5EA;--surface:#FFFFFF;--surface2:#F7EEDD;--ink:#1B1235;--ink2:#4A4266;--ink3:#7B7493;--line:#E7DBC6;
+  --brand:#E0338C;--brand-ink:#FFFFFF;--brand-soft:#FFE1EF;--brand-text:#B41E6C;
+  --hero1:#FFF1CF;--hero2:#FFDDEA;--hero-ink:#1B1235;--hero-ink2:rgba(27,18,53,.68);--hero-line:rgba(27,18,53,.16);--hero-chip:#FFFFFF;--track:#EFE5D3;--track-dark:rgba(27,18,53,.1);
+  --haldi:#FFB02E;--veg:#14B8A6;--pro:#FF6B35;--grain:#FFC94D;--side:#B9A7F0;--chilli:#D8342B;--ok:#0F9A8A;--warn-bg:#FFF0C2;--warn-ink:#5B3E00;--toast:#1B1235;--toast-ink:#FFFFFF;
+  --ink-panel:#1B1235;--panel2:#33175F;--glow:#FFB02E;--amber:#FF6FB0;--p-ink:#F6F0FF;--p-ink2:rgba(246,240,255,.7);--p-line:rgba(246,240,255,.16);
+  --band-g:#0B8F80;--band-m:#C56A00;--band-s:#D8342B;--panelbg:#FFFBF3;--shadow:4px 4px 0 #1B1235;
+  --mono:"Space Mono","JetBrains Mono",ui-monospace,Menlo,monospace;--retro:"Shrikhand","Bricolage Grotesque",Georgia,serif;color-scheme:light}
+.top{position:relative}
+.top::after{content:"";position:absolute;left:0;right:0;bottom:0;height:5px;background:linear-gradient(90deg,#FFB02E 0 25%,#FF6B35 25% 50%,#E0338C 50% 75%,#6C3BD9 75%)}
+.brand{font:400 21px/24px var(--retro);letter-spacing:.01em}
+.mark{background:var(--ink);border-radius:50%}
+.panel-h h2,.hero h2,.setup-hero h1,.dish,.empty-card h2,.sheet-h h2{font-family:var(--retro);font-weight:400;letter-spacing:.005em}
+.hero h2{font-size:25px;line-height:29px}.panel-h h2{font-size:24px;line-height:28px}.dish{font-size:21px;line-height:25px}
+.eyebrow,.cap,.live{font-family:var(--mono)}
+.plate,.card,.tile2,.empty-card,.ans,.inst,.setup-hero,.slide,.goal{border:2px solid var(--ink);box-shadow:4px 4px 0 var(--ink)}
+.meals,.presets,.alt,.move,.prompt,.pillsel,.choice,.tile,.mini,.sit,.myfood,.lswitch,.dslot,.swaprow,.other,.swap,.composer input,.kg input,.wbtn,.ctr button,.goal-btn{border:2px solid var(--ink);box-shadow:none}
+.btn{border:2px solid var(--ink);box-shadow:3px 3px 0 var(--ink);background:#fff;transition:transform 90ms,box-shadow 90ms}
+.btn.primary{background:var(--brand);color:#fff}.btn.done{background:var(--veg);color:var(--ink)}
+.btn:active,.tbtn:active,.send:active{transform:translate(2px,2px);box-shadow:1px 1px 0 var(--ink)}
+.send{border:2px solid var(--ink);box-shadow:3px 3px 0 var(--ink);background:var(--brand)}.send.cam{background:#fff}
+.meal[aria-checked="true"]{background:var(--haldi);color:var(--ink)}.meal .now{background:var(--brand)}
+.preset[aria-checked="true"]{background:var(--ink);color:#fff}
+.choice[aria-pressed="true"],.choice[aria-checked="true"],.tile[aria-checked="true"]{background:var(--ink);color:#fff}
+.sit[aria-checked="true"],.pillsel[aria-expanded="true"],.lswitch button[aria-pressed="true"]{background:var(--ink);color:#fff}
+.move[aria-pressed="true"]{box-shadow:4px 4px 0 var(--brand);background:#FFF7FB}
+.hero{background:linear-gradient(150deg,var(--hero1),var(--hero2));overflow:hidden}
+.hero::after{right:-58px;top:-58px;width:150px;height:150px;border-radius:50%;background:radial-gradient(circle,#6C3BD9 0 24px,#E0338C 24px 38px,#FF6B35 38px 52px,#FFB02E 52px 66px,rgba(255,176,46,0) 66px);opacity:.95}
+.hero-top{padding-right:64px}.hchip.time{margin-left:0}
+.hchip{border:1.5px solid var(--ink);background:#fff}.hchip.fit svg.i{color:var(--brand)}
+.read4,.tune{border-top:2px solid var(--ink)}.read4>div+div{border-left:2px solid var(--ink)}
+.tbtn{background:#fff;color:var(--ink);border:2px solid var(--ink);box-shadow:3px 3px 0 var(--ink)}
+.tbtn[aria-pressed="true"]{background:var(--pro);color:#fff}
+.modlog li::before{background:var(--brand)}
+.qty{background:var(--surface2);border:1.5px solid var(--ink)}
+.tag{background:var(--haldi);color:var(--ink);border:1.5px solid var(--ink)}
+.why-ic,.ask-ic,.ans-h .dot,.goal-ic{background:var(--ink);color:var(--haldi);border:0}
+.tip{background:#FFF0C2;color:var(--ink);border:2px solid var(--ink)}
+.note{border:2px solid var(--ink)}
+.inst{background:radial-gradient(1.4px 1.4px at 12% 22%,#fff 60%,transparent 61%),radial-gradient(1px 1px at 78% 14%,#fff 60%,transparent 61%),radial-gradient(1.2px 1.2px at 56% 34%,#FFD88A 60%,transparent 61%),radial-gradient(1px 1px at 34% 58%,#fff 60%,transparent 61%),radial-gradient(1.3px 1.3px at 90% 62%,#FF9CCB 60%,transparent 61%),radial-gradient(1px 1px at 8% 82%,#fff 60%,transparent 61%),linear-gradient(160deg,var(--ink-panel),var(--panel2))}
+.inst .band-g{color:#6FF0DC}.inst .band-m{color:#FFC94D}.inst .band-s{color:#FF8FA3}
+.cb-g{fill:#14B8A6;opacity:.2}.cb-m{fill:#FFB02E;opacity:.12}
+.c-act{filter:drop-shadow(0 0 6px rgba(255,176,46,.6))}
+.hab{background:rgba(246,240,255,.07)}.hab[aria-pressed="true"]{background:var(--haldi);color:var(--ink);box-shadow:none}
+.cmp-bars .b1{background:var(--haldi)}.cmp-bars .b1.warn{background:#FF8FA3}
+.bar i,.mdots i.on,.pbar .col i{background:var(--brand)}.pbar .col i.full{background:var(--veg)}
+.tabs{background:var(--ink);border-top:0}
+.tab{color:rgba(255,255,255,.62)}.tab[aria-current="page"]{color:var(--ink)}.tab[aria-current="page"]::before{background:var(--haldi);top:1px;width:54px;height:48px;border-radius:14px}
+.bub{background:var(--brand);color:#fff;border:2px solid var(--ink)}
+.switch{border:1.5px solid var(--ink)}
+.tl-row.done .tl-dot{background:var(--veg);box-shadow:inset 0 0 0 2px var(--ink)}.tl-dot{box-shadow:inset 0 0 0 2px var(--ink)}.tl::before{background:var(--ink)}
+.toast{border:2px solid #fff}
+@media (min-width:1080px){.app[data-layout="studio"] .panel{border:2px solid var(--ink);box-shadow:6px 6px 0 var(--ink)}}
 </style>
 
 <svg width="0" height="0" style="position:absolute" aria-hidden="true">

diff --git a/src/v4/app.built.js b/src/v4/app.built.js
@@ -761,7 +761,7 @@ function heroCard(m,v){
   var rd=el("div","read4");
   function cell(cap,node,unit,cls){var d=el("div");d.appendChild(el("p","cap",cap));var x=el("span","v"+(cls?" "+cls:""));x.appendChild(node);if(unit)x.appendChild(el("small",null,unit));d.appendChild(x);return d;}
   add(rd,cell("Protein",tw("h-p",nu.p),"g"),cell("Energy",tw("h-k",nu.k),"kcal"),cell("Fibre",tw("h-f",nu.f),"g"),cell("Rise",el("span","mono",rs.band),null,bandCls(rs.band)));
-  var tn=el("div","tune");tn.appendChild(el("p","cap","Tune this plate"));
+  var tn=el("div","tune");tn.appendChild(el("p","cap","Remix this plate"));
   [["pro","More protein","dumbbell"],["gentle","Gentler on sugar","lab"],["quick","Under 15 min","bolt"]].forEach(function(x){
     var b=btn("tbtn",x[1],x[2],"tune-"+x[0]);setPressed(b,TUNE[x[0]]);
     b.addEventListener("click",function(){TUNE[x[0]]=!TUNE[x[0]];if(x[0]==="quick"){page=0;sel=0;FRESH=true;}render();

diff --git a/src/v4/parts/ui.js b/src/v4/parts/ui.js
@@ -155,7 +155,7 @@ function heroCard(m,v){
   var rd=el("div","read4");
   function cell(cap,node,unit,cls){var d=el("div");d.appendChild(el("p","cap",cap));var x=el("span","v"+(cls?" "+cls:""));x.appendChild(node);if(unit)x.appendChild(el("small",null,unit));d.appendChild(x);return d;}
   add(rd,cell("Protein",tw("h-p",nu.p),"g"),cell("Energy",tw("h-k",nu.k),"kcal"),cell("Fibre",tw("h-f",nu.f),"g"),cell("Rise",el("span","mono",rs.band),null,bandCls(rs.band)));
-  var tn=el("div","tune");tn.appendChild(el("p","cap","Tune this plate"));
+  var tn=el("div","tune");tn.appendChild(el("p","cap","Remix this plate"));
   [["pro","More protein","dumbbell"],["gentle","Gentler on sugar","lab"],["quick","Under 15 min","bolt"]].forEach(function(x){
     var b=btn("tbtn",x[1],x[2],"tune-"+x[0]);setPressed(b,TUNE[x[0]]);
     b.addEventListener("click",function(){TUNE[x[0]]=!TUNE[x[0]];if(x[0]==="quick"){page=0;sel=0;FRESH=true;}render();
